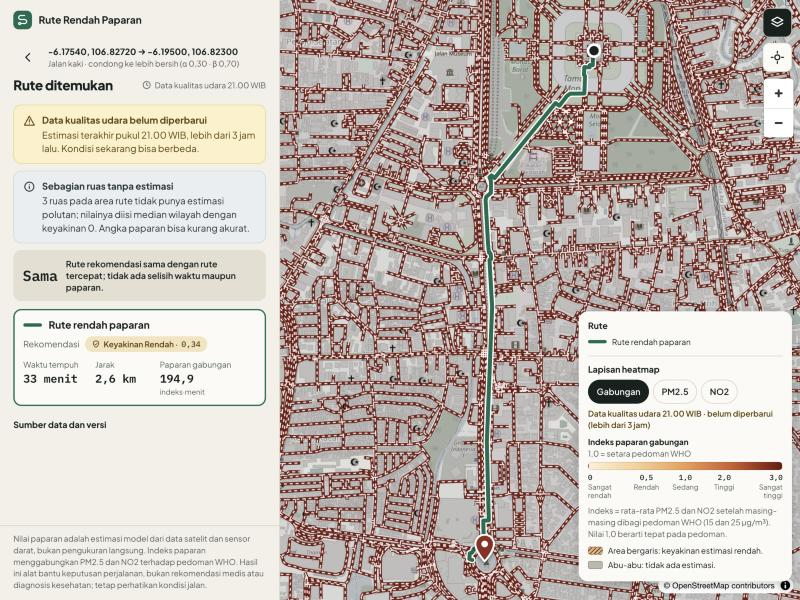
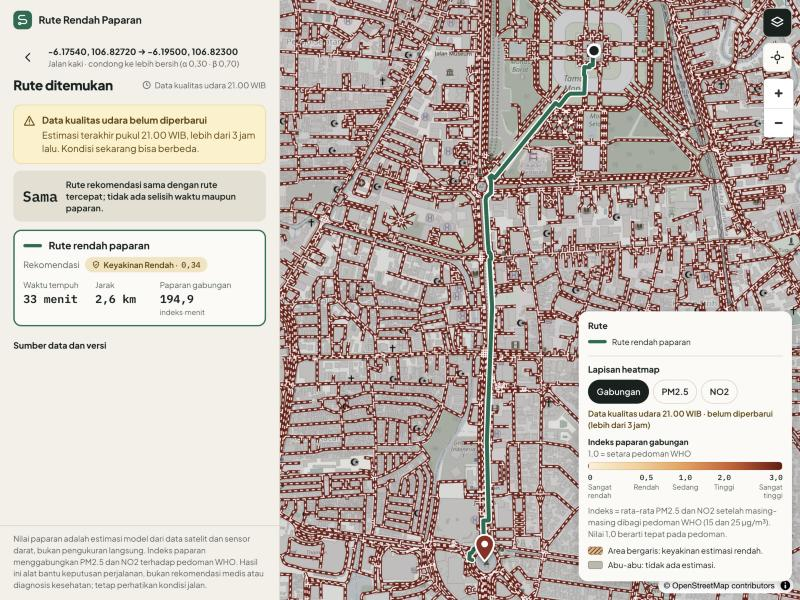
docs: laporan E2E TI-SE-10 setelah perbaikan D-01 dan D-07
- 62/63 lulus pada d5c5dea (dua eksekusi identik); gagal tinggal D-02 (gateway).

- D-01 dan D-07 dipindah ke daftar yang diperbaiki beserta buktinya; tangkapan 01, 02, 04 diambil ulang.

Changed region(s): [[0.0, 0.27, 0.3438, 0.72]]

diff --git a/docs/ti-se-10/LAPORAN.md b/docs/ti-se-10/LAPORAN.md
@@ -1,6 +1,6 @@
 # Laporan Uji Integrasi End-to-End (TI-SE-10)
 
-Tanggal eksekusi: 2026-10-27, 12:16–12:19 UTC, pada `dev` terkini. Pipeline yang diuji:
+Tanggal eksekusi: 2026-10-27, 12:50–12:52 UTC, pada `dev` terkini beserta perbaikan D-01 dan D-07. Pipeline yang diuji:
 
 ```
 Data Worker (portal SPKU → QC → downscaling) → Spatial Pollution Cache DB / OSM Cache DB
@@ -8,18 +8,19 @@ Data Worker (portal SPKU → QC → downscaling) → Spatial Pollution Cache DB 
                         ↘ Route Model (stub IRouteSolve)
 ```
 
-**Hasil: 60 dari 62 pemeriksaan lulus.** Dua pemeriksaan yang gagal adalah defect D-01 dan D-02. Matriks
+**Hasil: 62 dari 63 pemeriksaan lulus.** Satu pemeriksaan yang gagal adalah defect D-02 (gateway, DevOps).
+D-01 dan D-07 ditemukan oleh uji ini dan sudah diperbaiki di branch yang sama. Matriks
 lengkap: [MATRIKS.md](MATRIKS.md); data mentah: [hasil/](hasil/).
 
 ## 1. Versi yang diuji
 
 | Komponen | Versi |
 |---|---|
-| Aplikasi | commit `4638b08` di `feat/ti-se-10` = `dev` `f15c8f9` + harness `tests/e2e/`; tree bersih saat eksekusi |
+| Aplikasi | commit `d5c5dea` di `feat/ti-se-10` = `dev` `f15c8f9` + harness `tests/e2e/` + perbaikan D-01 (`9eba0bd`) dan D-07 (`d5c5dea`); tree bersih saat eksekusi |
 | Data Worker | `src/data_worker` `c9fd83d` (termasuk TI-SE-02 #63, TI-DO-07 #57, TI-AI-05 #64, TI-DO-08 #62, #66), image `sippolusi-e2e-worker` |
-| Cache API | `src/backend` `6f197ab` (TI-SE-04 sampai 08, #61, TI-DO-08), image `sippolusi-e2e-cache_api` |
+| Cache API | `src/backend` `d5c5dea` (TI-SE-04 sampai 08, #61, TI-DO-08, perbaikan D-01 dan D-07), image `sippolusi-e2e-cache_api` |
 | API Gateway | `src/gateway` `585c781`, image `sippolusi-e2e-gateway` |
-| Frontend | `src/frontend` `b50780d` (TI-SE-09 beserta perbaikan QA), image `sippolusi-e2e-frontend` |
+| Frontend | `src/frontend` `d5c5dea` (TI-SE-09 beserta perbaikan QA, sumber estimasi D-07), image `sippolusi-e2e-frontend` |
 | Basis data | PostgreSQL 18.6 + PostGIS 3.6.4 (`postgis/postgis:18-3.6`, sama dengan Railway) |
 | Model downscaling | `spatial-<hash>` per window (mis. 12:00 `spatial-efaaa52e…`). Untuk kedua polutan, Model Registry tidak dikonfigurasi di harness, sehingga keduanya fallback ke IDW `idw-p2-k8` dengan `fallback_reason: resolve_registry:ValueError` |
 | Model rute | `stub-e2e-1` (stub IRouteSolve, `tests/e2e/route_model_stub.py`); fallback Backend `astar-baseline`. MORL belum ada (TI-AI-10/11) |
@@ -48,7 +49,7 @@ Digest setiap image ada di [hasil/versions.json](hasil/versions.json).
     akan terhapus oleh riwayat 3 jam.
 - Cache API memakai `LOG_FORMAT=json`, sama seperti di Railway.
 - Runner `tests/e2e/run_e2e.py` (Python standar, `docker compose`, `psql`) menjalankan 11 skenario
-  berurutan dari keadaan bersih. Dua eksekusi berturut-turut memberi hasil yang sama (60/62).
+  berurutan dari keadaan bersih. Dua eksekusi berturut-turut memberi hasil yang sama (62/63).
 - Window fixture berasal dari 26 Oktober, jadi pada eksekusi ini datanya sudah lebih dari 3 jam. Respons
   dan UI menandainya `data_stale` ("Data kualitas udara belum diperbarui"). Itu perilaku yang benar, dan
   diperiksa di E2E-04.
@@ -57,9 +58,9 @@ Digest setiap image ada di [hasil/versions.json](hasil/versions.json).
 
 | Acceptance criteria | Hasil | Bukti |
 |---|---|---|
-| Skenario sukses membuktikan rute tampil dari data yang diproses Worker hingga frontend | ✅ | E2E-02: siklus Worker exit 0. Portal dijelajahi, lalu Worker menulis window 12:00 (`run_id 20261026T1200Z-spatial-efaaa52e…-c36e8d1a`, 21 987 baris, cakupan 1,0). Setiap baris cache menyimpan `trace_run_id` yang sama. API menjawab 200 dengan `time_window_start`, `model_version.downscaling`, dan `graph_version` yang sama dengan cache. Frontend menampilkan rute dan heatmap ([01](01-sukses-rute-dari-data-worker.jpg), [02](02-sukses-sumber-dan-versi.jpg)). E2E-03/05: window baru langsung dipakai |
+| Skenario sukses membuktikan rute tampil dari data yang diproses Worker hingga frontend | ✅ | E2E-02: siklus Worker exit 0. Portal dijelajahi, lalu Worker menulis window 12:00 (`run_id 20261026T1200Z-spatial-efaaa52e…-c36e8d1a`, 21 987 baris, cakupan 1,0). Setiap baris cache menyimpan `trace_run_id` yang sama. API menjawab 200 dengan `time_window_start`, `model_version.downscaling`, dan `graph_version` yang sama dengan cache, `missing_edge_count: 0`, dan `estimation` `{source: idw, fallback_pollutants: [no2, pm25]}` yang sama dengan laporan Worker. Frontend menampilkan rute dan heatmap ([01](01-sukses-rute-dari-data-worker.jpg), [02](02-sukses-sumber-dan-versi.jpg)). E2E-03/05: window baru langsung dipakai |
 | Skenario gagal mencakup sumber data tidak tersedia, cache kosong, inferensi timeout, dan API gagal | ✅ | E2E-04 portal SPKU mati; E2E-01 cache kosong; E2E-06/07 inferensi timeout, galat, label salah, no_route, model mati ([03](03-memuat-saat-model-lambat.jpg), [04](04-fallback-model-timeout.jpg)); E2E-08 Cache API mati dan basis data mati ([05](05-api-gagal-502.jpg)); E2E-05 window sedang ditulis; E2E-09 versi graf tidak cocok |
-| Tidak ada kegagalan yang berubah menjadi nilai paparan nol atau rute sukses palsu | ✅ | Setiap respons diperiksa (`no_false_success`): semua 200 punya paparan > 0, semua kegagalan berupa galat terstruktur non-200. Cache tidak berisi indeks atau konsentrasi bernilai nol. Fallback rute selalu bertanda `route_source: baseline`, `preference_applied: false`, `fallback_reason`. Catatan: D-01 mengisi 3 ruas tepi dengan median wilayah (bukan nol); D-07 fallback downscaling tidak terlihat oleh pengguna |
+| Tidak ada kegagalan yang berubah menjadi nilai paparan nol atau rute sukses palsu | ✅ | Setiap respons diperiksa (`no_false_success`): semua 200 punya paparan > 0, semua kegagalan berupa galat terstruktur non-200. Cache tidak berisi indeks atau konsentrasi bernilai nol. Fallback rute selalu bertanda `route_source: baseline`, `preference_applied: false`, `fallback_reason`. Sumber estimasi IDW kini disebut apa adanya di respons dan UI (D-07) |
 | Laporan uji menyebutkan versi aplikasi, model, dataset/cache, hasil, dan defect terbuka | ✅ | Bagian 1, 4, dan 5 laporan ini |
 
 ### Penelusuran korelasi (contoh, teredaksi)
@@ -70,11 +71,11 @@ Satu permintaan dapat ditelusuri dari frontend sampai inferensi, dan dari cache 
 ```
 Worker   run_id=20261026T1200Z-spatial-efaaa52e…-c36e8d1a rows_written=21987 coverage=1.0
 cache    edge_pollution.trace_run_id=20261026T1200Z-spatial-efaaa52e…-c36e8d1a  (→ pollution.inference_run)
-gateway  {"message":"POST /v1/routes 200","request_id":"fddf7cf5b735acd3c5c8857a3524b17a","duration_s":0.391, ...}
-API      {"level":"info","logger":"solver","correlation_id":"fddf7cf5b735acd3c5c8857a3524b17a",
-          "message":"route_inference request_id=fddf7cf5… solver=http outcome=ok route_source=policy
-          model_version=stub-e2e-1 mode=walk alpha=0.3 beta=0.7 deadline_ms=7310 inference_ms=173.9"}
-respons  X-Request-ID = metadata.request_id = fddf7cf5…; metadata.time_window_start = 2026-10-26T12:00:00Z
+gateway  {"message":"POST /v1/routes 200","request_id":"9c3cf57120c0089f0397529f5992ebed","duration_s":0.407, ...}
+API      {"level":"info","logger":"solver","correlation_id":"9c3cf57120c0089f0397529f5992ebed",
+          "message":"route_inference request_id=9c3cf571… solver=http outcome=ok route_source=policy
+          model_version=stub-e2e-1 mode=walk alpha=0.3 beta=0.7 deadline_ms=7294 inference_ms=160.2"}
+respons  X-Request-ID = metadata.request_id = 9c3cf571…; metadata.time_window_start = 2026-10-26T12:00:00Z
 ```
 
 ID permintaan yang tampil di UI ([02](02-sukses-sumber-dan-versi.jpg)) juga tercatat di log gateway dan
@@ -85,7 +86,7 @@ Cache API. Log semua layanan diperiksa: tidak ada DSN, kata sandi, atau koordina
 | Skenario | Hasil |
 |---|---|
 | E2E-01 cache kosong (5/5) | 503 `cache_unavailable`/`cache_empty` untuk rute dan heatmap; tidak ada nilai yang dikarang. `/health/ready` siap dengan polusi `empty` |
-| E2E-02 sukses Worker → frontend (14/15) | Gagal hanya `missing_edge_count` (D-01). Lulus: siklus exit 0, fallback IDW bertanda per polutan, `trace_run_id`, log JSON berkorelasi |
+| E2E-02 sukses Worker → frontend (16/16) | Siklus exit 0, fallback IDW bertanda per polutan, `trace_run_id`, log JSON berkorelasi, `missing_edge_count: 0` (D-01 diperbaiki), `metadata.estimation` sesuai Worker (D-07 diperbaiki) |
 | E2E-03 window baru dan idempotensi (5/5) | Window 13:00 langsung dipakai; ETag heatmap berubah; Worker tidak menulis ulang window yang sudah complete |
 | E2E-04 sumber data tidak tersedia (6/6) | Portal mati: `fetch_ground_truth` `failed`, Worker exit 1 (`NoGroundTruthError`) tanpa menulis window 15:00; API tetap memakai 13:00 dengan `data_stale` yang benar |
 | E2E-05 window sedang ditulis (2/2) | Window `writing` tidak terbaca; begitu `complete`, langsung dipakai |
@@ -102,10 +103,15 @@ Cache API. Log semua layanan diperiksa: tidak ada DSN, kata sandi, atau koordina
 
 | ID | Prioritas | Komponen (pemilik) | Defect | Langkah reproduksi | Usulan perbaikan |
 |---|---|---|---|---|---|
-| D-01 | Sedang | Cache API, `pollution/repository.py` (SE) | Ruas yang kotak pembatasnya menyentuh bbox permintaan tetapi geometrinya tidak, masuk ke subgraf (`&&`) namun estimasinya tidak terbaca (query polusi menambah `ST_Intersects`). Ruas itu diisi median wilayah dengan confidence 0, dan UI menampilkan "3 ruas tanpa estimasi" walau semua ruas punya estimasi. **Terkonfirmasi juga di Railway** oleh QA: rute Monas → Bundaran HI menampilkan "3 ruas tanpa estimasi" | E2E-02: Monas → Bundaran HI, `missing_edge_count: 3`; ruas 111493, 359388, 370670 punya estimasi untuk ketiga window ([01](01-sukses-rute-dari-data-worker.jpg)) | Samakan filter: hapus `ST_Intersects` dari `_SQL_WEIGHTS` (cukup `&&`), atau baca bobot berdasarkan `edge_id` subgraf |
 | D-02 | Rendah | API Gateway (DO) | Selama ±10 s setelah Cache API berhenti, gateway menunggu `proxy_connect_timeout` 5 s lalu menjawab 504 `upstream_timeout`, bukan 502 `upstream_unavailable`. Penyebabnya, IP lama masih tersimpan di cache DNS (`resolver … valid=10s`). Pengguna menunggu 5 s dan melihat pesan "terlalu lama merespons". Setelah itu 502 seperti seharusnya ([05](05-api-gagal-502.jpg)) | E2E-08: `docker compose stop cache_api`, lalu langsung `POST /v1/routes` → 504 setelah ±5 s; permintaan berikutnya → 502 | Kecilkan `proxy_connect_timeout` di jaringan privat (mis. 2 s), atau tetap diterima dengan catatan |
 | D-06 | Sedang (UX) | Model downscaling dan frontend (AI/FE) | Semua confidence IDW < 0,4 (median 0,30), sehingga seluruh heatmap bergaris "keyakinan rendah" dan setiap rute berlencana "Keyakinan Rendah". Peta jadi padat dan pembeda keyakinan tidak informatif | Laporan Worker: `low_lt_0_4 = 21987` dari 21 987 ([hasil/worker-2026-10-26T1200Z.json](hasil/worker-2026-10-26T1200Z.json)) | Tinjau rumus confidence IDW atau ambang kelas (subbab 3.1) bersama tim AI |
-| D-07 | Sedang | API publik dan frontend (SE/FE) | Fallback downscaling tidak terlihat oleh pengguna. Worker mencatat kedua polutan berasal dari IDW sensor darat (`estimation_source: idw`, `fallback_reason` per polutan), tetapi respons `POST /v1/routes` hanya membawa `model_version.downscaling: spatial-<hash>`. Frontend menulis sumber estimasi secara tetap: "Model downscaling spasial dari data satelit, meteorologi, dan sensor darat". Sebelum TI-AI-05, nama versi `idw-p2-k8` masih menyiratkan IDW; kini hash tidak menyiratkan apa pun | E2E-02, panel "Sumber data dan versi" ([02](02-sukses-sumber-dan-versi.jpg)); bandingkan dengan `model_metadata` di [hasil/worker-2026-10-26T1200Z.json](hasil/worker-2026-10-26T1200Z.json) | Teruskan sumber estimasi (dan fallback per polutan) dari cache ke metadata respons; teks frontend mengikuti nilai itu |
+
+### Diperbaiki di branch ini (diverifikasi pada eksekusi ini)
+
+| ID | Defect semula | Perbaikan | Bukti |
+|---|---|---|---|
+| D-01 | Ruas yang kotak pembatasnya menyentuh bbox permintaan tetapi garisnya tidak, masuk subgraf (`&&`) namun bobotnya tersaring `ST_Intersects`. Ruas itu diisi median wilayah dengan confidence 0, dan UI menampilkan "3 ruas tanpa estimasi" walau semua ruas punya estimasi (Monas → Bundaran HI; ruas 111493, 359388, 370670). Terkonfirmasi juga di Railway oleh QA | `9eba0bd`: `_SQL_WEIGHTS` memakai filter bbox yang sama dengan subgraf (`&&`). Uji regresi `test_weights_cover_every_edge_of_the_road_graph_bbox` (ruas diagonal) gagal dengan query lama dan lulus setelah perbaikan | E2E-02: `missing_edge_count: 0`; UI tanpa catatan ruas tanpa estimasi ([01](01-sukses-rute-dari-data-worker.jpg)). Perlu deploy ke Railway agar hilang di sana |
+| D-07 | Fallback downscaling tidak terlihat oleh pengguna: respons hanya membawa `model_version.downscaling: spatial-<hash>`, dan frontend menulis tetap "Model downscaling spasial dari data satelit, meteorologi, dan sensor darat" walau estimasi berasal dari IDW sensor darat | `d5c5dea`: `metadata.estimation` `{source, fallback_pollutants}` dari baris cache ruas rute (OpenAPI dan contoh diperbarui); frontend menulis sumber estimasi sesuai nilai itu | E2E-02: `estimation` = laporan Worker; panel "Sumber estimasi": "Interpolasi dari sensor darat SPKU (IDW); model downscaling tidak tersedia" ([02](02-sukses-sumber-dan-versi.jpg)). Catatan: disclaimer umum di kaki panel (`DISCLAIMER` frontend) masih menyebut "data satelit dan sensor darat"; teks itu deskripsi sistem dari desain, perlu keputusan FE/PO bila ingin ikut menyesuaikan |
 
 ### Tertutup oleh perubahan di `dev` (diverifikasi ulang pada eksekusi ini)
 
@@ -122,7 +128,7 @@ Cache API. Log semua layanan diperiksa: tidak ada DSN, kata sandi, atau koordina
 | Model Registry dan ST-GNN/LightGBM terdaftar (TI-AI-05, TI-AI-11) | Kode ada di `dev`; registry tidak disertakan di harness | Hanya jalur fallback per polutan yang teruji. Jalur model terdaftar perlu diuji dengan MLflow (atau setara) di stack |
 | Multi-Objective Route Model (TI-AI-10/11) | Belum ada layanan | Rute "policy" berasal dari stub yang memenuhi kontrak IRouteSolve; perilaku MORL sebenarnya belum teruji |
 | Sumber sekunder (TI-SE-02) | Dimatikan di harness (`FEATURES_SOURCES=none`) | FeatureMatrix dari satelit dan meteorologi tidak teruji; butuh fixture skema `features` |
-| Railway | TI-SE-08/09 sudah di-merge; `DOWNSCALE_WRITE_CACHE=1` aktif di `development` sejak 27 Okt; `public_api.smoke` lewat gateway Railway 17/17 lulus (QA) | Uji asap Railway sudah dilakukan; D-01 terkonfirmasi di sana |
+| Railway | TI-SE-08/09 sudah di-merge; `DOWNSCALE_WRITE_CACHE=1` aktif di `development` sejak 27 Okt; `public_api.smoke` lewat gateway Railway 17/17 lulus (QA) | Uji asap Railway sudah dilakukan; D-01 terkonfirmasi di sana. Perbaikan D-01 dan D-07 berlaku di Railway setelah PR ini di-merge dan di-deploy |
 
 ## 6. Cara mengulang
 
